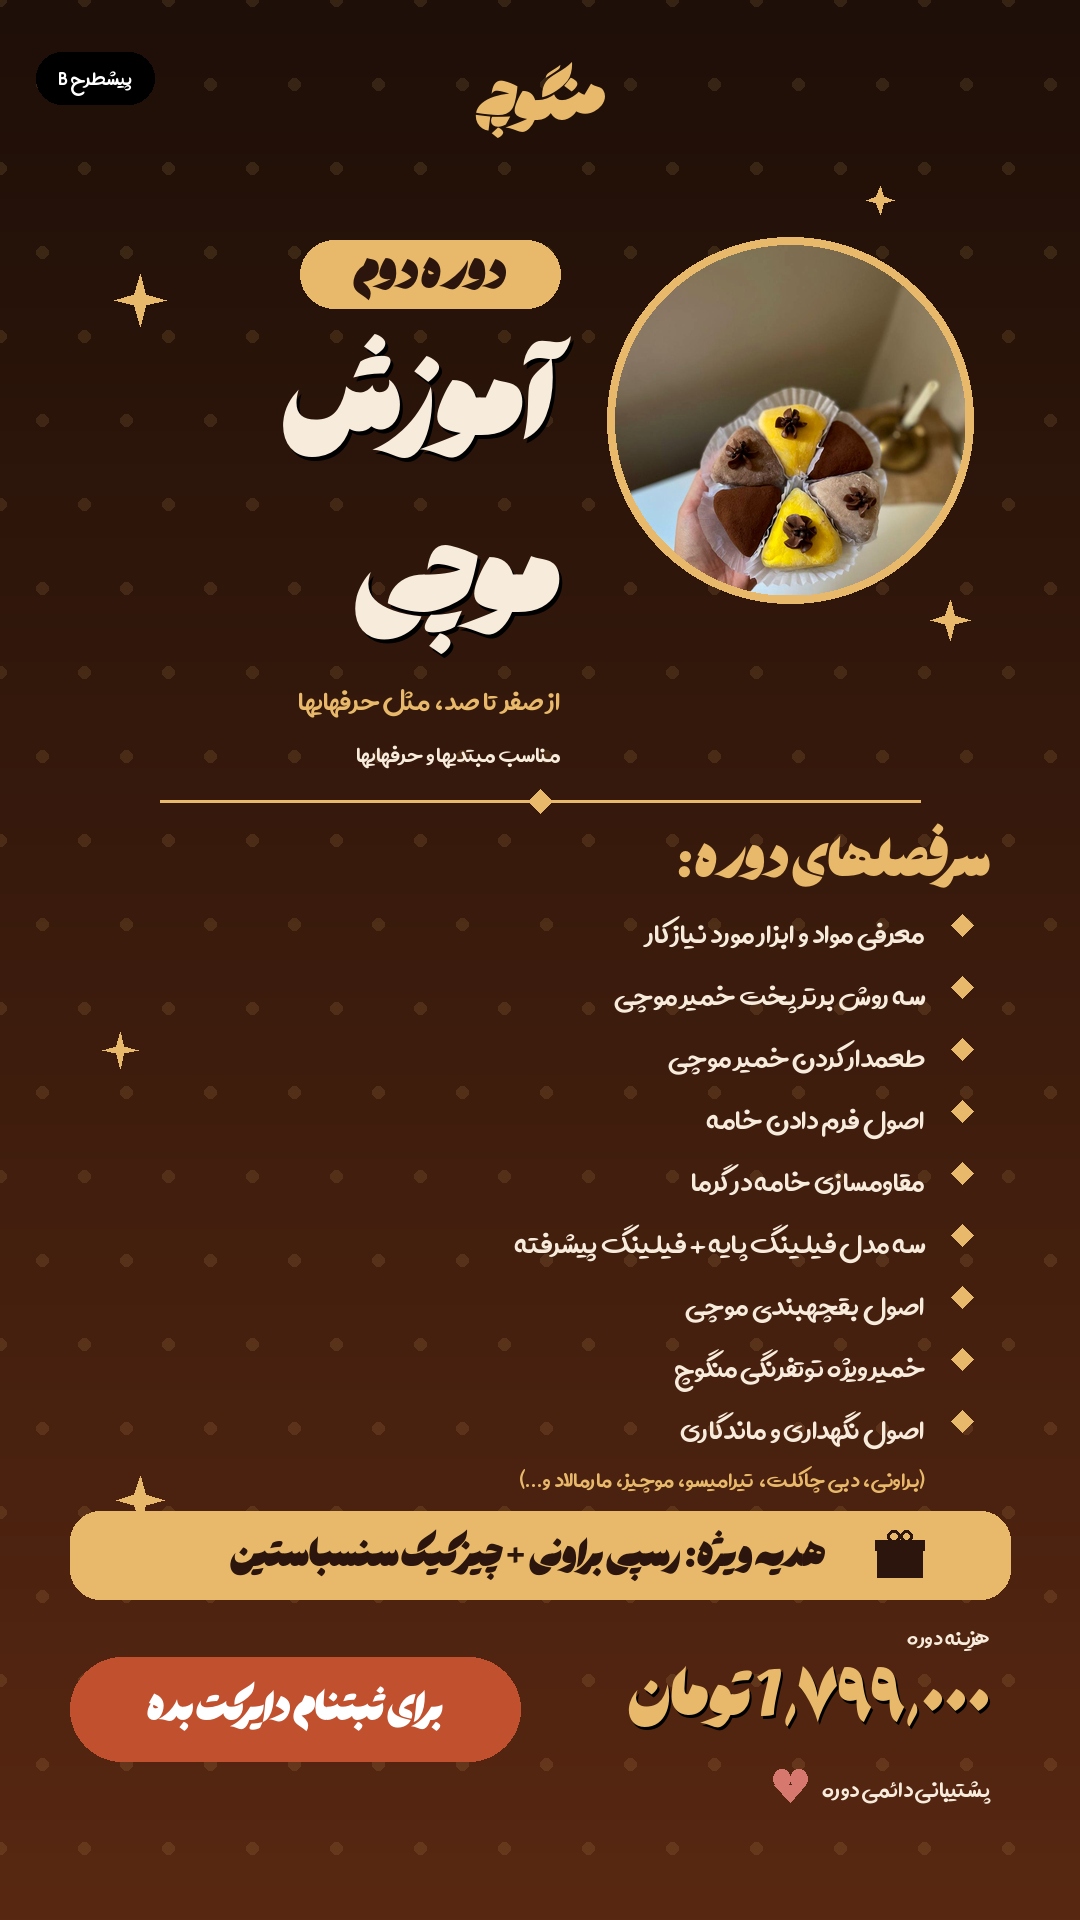
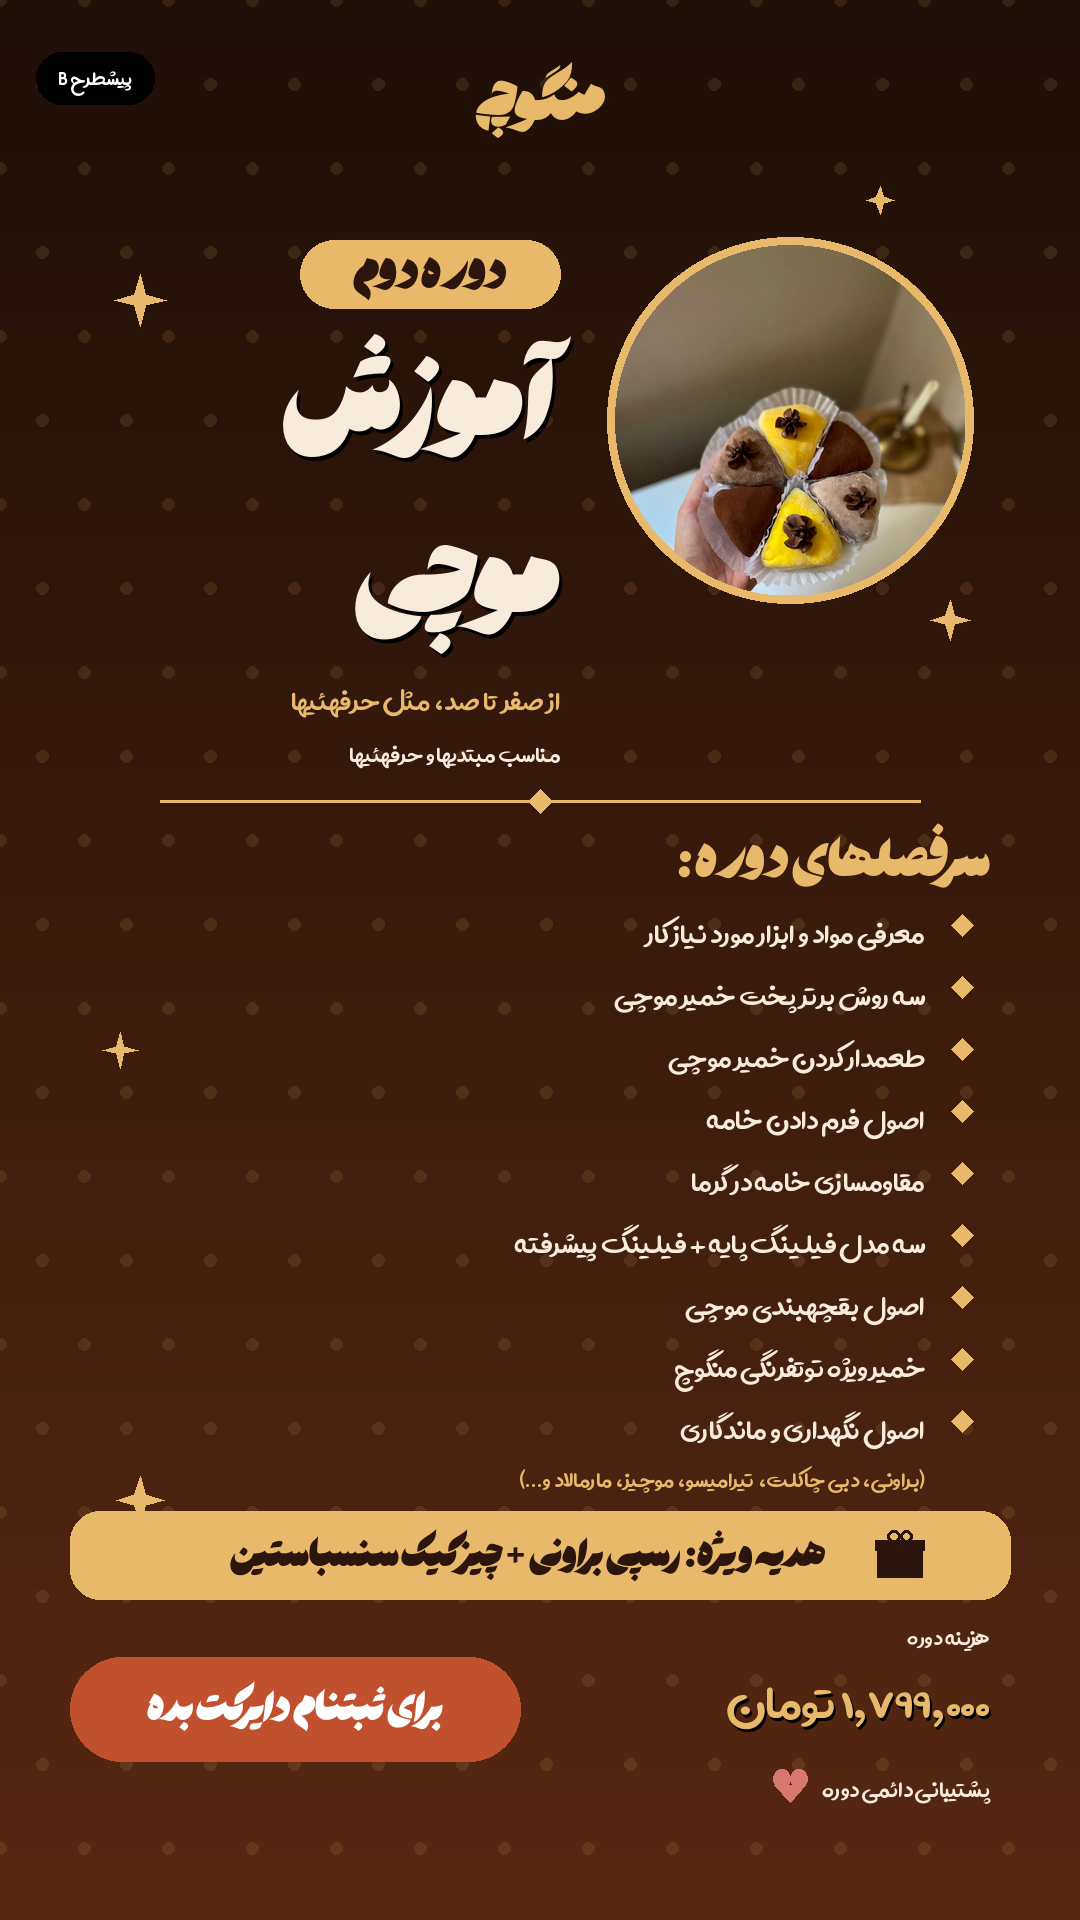
Finalize story A: fix ئ in حرفهایها, Persian price digits (Aviny), final render without draft tag

Changed region(s): [[0.5806, 0.8438, 0.9167, 0.9062], [0.275, 0.3438, 0.3056, 0.375]]

diff --git a/design/make_stories.py b/design/make_stories.py
@@ -1,6 +1,7 @@
 # -*- coding: utf-8 -*-
 """Instagram story pre-designs (1080x1920) for Manguch mochi course.
-Titles: Hasti | Body: Aviny
+Titles: Hasti | Body: Aviny | Price digits: Aviny (Hasti digits look Latin)
+Explicit escapes: ZWNJ | ئ | Persian digits | ٬
 """
 import sys, os
 sys.path.insert(0, os.path.dirname(os.path.abspath(__file__)))
@@ -177,43 +178,54 @@ def brand_top(img, y, color, sub=None, font_path=None):
         draw_fa(img, (540, y + 82), sub, F(AVINY, 28), color, anchor="mt")
 
 # ---------- content ----------
+ZW = ""
+HM = "ئی"[1]
+D1, D3, D7, D9, D0, SEP = "۱", "۳", "۷", "۹", "۰", "٬"
+assert ZW == "" and HM == "ئی"[1]
+SUB1 = "از صفر تا صد، مثل حرفه" + HM + "ی" + ZW + "ها"
+SUB2 = "مناسب مبتدی" + ZW + "ها و حرفه" + HM + "ی" + ZW + "ها"
 TOPICS_2COL = [
-    ["مواد و ابزار مورد نیاز کار", "۳ روش برتر پخت خمیر موچی", "طعمدار کردن خمیر موچی",
-     "اصول فرم دادن خامه", "مقاومسازی خامه در گرما"],
-    ["۳ فیلینگ پایه + فیلینگ پیشرفته", "اصول بقچهبندی موچی", "خمیر توتفرنگی منگوچ",
-     "نگهداری و ماندگاری"],
+    ["مواد و ابزار مورد نیاز کار", D3 + " روش برتر پخت خمیر موچی",
+     "طعم" + ZW + "دار کردن خمیر موچی",
+     "اصول فرم دادن خامه", "مقاوم" + ZW + "سازی خامه در گرما"],
+    [D3 + " فیلینگ پایه + فیلینگ پیشرفته", "اصول بقچه" + ZW + "بندی موچی",
+     "خمیر توت" + ZW + "فرنگی منگوچ", "نگهداری و ماندگاری"],
 ]
 TOPICS_1COL = ["معرفی مواد و ابزار مورد نیاز کار", "سه روش برتر پخت خمیر موچی",
-               "طعمدار کردن خمیر موچی", "اصول فرم دادن خامه", "مقاومسازی خامه در گرما",
-               "سه مدل فیلینگ پایه + فیلینگ پیشرفته", "اصول بقچهبندی موچی",
-               "خمیر ویژه توتفرنگی منگوچ", "اصول نگهداری و ماندگاری"]
+               "طعم" + ZW + "دار کردن خمیر موچی", "اصول فرم دادن خامه",
+               "مقاوم" + ZW + "سازی خامه در گرما",
+               "سه مدل فیلینگ پایه + فیلینگ پیشرفته", "اصول بقچه" + ZW + "بندی موچی",
+               "خمیر ویژه توت" + ZW + "فرنگی منگوچ", "اصول نگهداری و ماندگاری"]
 ADV_DETAIL = "(براونی، دبی چاکلت، تیرامیسو، موچیز، مارمالاد و…)"
-GIFT = "هدیه ویژه: رسپی براونی + چیزکیک سنسباستین"
-PRICE = "۱٬۷۹۹٬۰۰۰ تومان"
-CTA = "برای ثبتنام دایرکت بده"
+GIFT = "هدیه ویژه: رسپی براونی + چیزکیک سن" + ZW + "سباستین"
+PRICE = D1 + SEP + D7 + D9 + D9 + SEP + D0 + D0 + D0 + " تومان"
+CTA = "برای ثبت" + ZW + "نام دایرکت بده"
+SEC_A = "تو این دوره یاد می" + ZW + "گیری:"
+SEC_B = "سرفصل" + ZW + "های دوره:"
+CTA_A = "ثبت" + ZW + "نام در دایرکت"
+SUP = "پشتیبانی دائمی"
 
 # ================= DESIGN A : cream bakery =================
-def design_a():
+def design_a(final=False):
     CREAM, BROWN, TERRA, GOLD = (250, 241, 230), (84, 39, 26), (193, 80, 46), (176, 124, 62)
     img = Image.new("RGBA", (W, H), CREAM + (255,))
     dots(img, (176, 124, 62), step=76, r=6, alpha=28)
     brand_top(img, 60, BROWN)
-    tag(img, "پیشطرح A")
+    if not final:
+        tag(img, "پیشطرح A")
     paste_arch(img, "muchi.jpg", 540, 168, 640, 560, 12, TERRA)
     pill(img, [380, 688, 700, 776], TERRA)
     draw_fa(img, (540, 732), "دوره دوم", F(HASTI_RRD, 46), (255, 255, 255), anchor="mm")
     s = fit(HASTI_RRD, "آموزش موچی", 900, 116)
     draw_fa(img, (540, 800), "آموزش موچی", F(HASTI_RRD, s), BROWN, anchor="mt")
     ty = 800 + F(HASTI_RRD, s).height + 4
-    draw_fa(img, (540, ty), "از صفر تا صد، مثل حرفهایها",
-            F(AVINY, 37), (138, 90, 59), anchor="mt")
-    draw_fa(img, (540, ty + 58), "مناسب مبتدیها و حرفهایها",
-            F(AVINY, 30), GOLD, anchor="mt")
+    draw_fa(img, (540, ty), SUB1, F(AVINY, 37), (138, 90, 59), anchor="mt")
+    draw_fa(img, (540, ty + 58), SUB2, F(AVINY, 30), GOLD, anchor="mt")
     divider(img, int(ty + 128), GOLD)
-    draw_fa(img, (990, int(ty + 152)), "تو این دوره یاد میگیری:", F(HASTI_RRD, 44), TERRA, anchor="rt")
+    draw_fa(img, (990, int(ty + 152)), SEC_A, F(HASTI_RRD, 44), TERRA, anchor="rt")
     pill(img, [70, int(ty + 156), 420, int(ty + 222)], TERRA)
     heart(img, 340, int(ty + 189), 22, (255, 255, 255))
-    draw_fa(img, (295, int(ty + 189)), "پشتیبانی دائمی", F(HASTI_RRD, 30), (255, 255, 255), anchor="rm")
+    draw_fa(img, (295, int(ty + 189)), SUP, F(HASTI_RRD, 30), (255, 255, 255), anchor="rm")
     y0, step = int(ty + 242), 60
     cols_x = [990, 500]
     for ci, col in enumerate(TOPICS_2COL):
@@ -232,9 +244,10 @@ def design_a():
     py = gy + 104
     draw_fa(img, (785, py), "هزینه دوره", F(AVINY, 28), BROWN, anchor="mm")
     pill(img, [560, py + 44, 1010, py + 140], BROWN)
-    draw_fa(img, (785, py + 92), PRICE, F(HASTI_RRD, 42), (245, 214, 150), anchor="mm")
+    ps = fit(AVINY, PRICE, 400, 52, 30)
+    draw_fa(img, (785, py + 92), PRICE, F(AVINY, ps), (245, 214, 150), anchor="mm")
     pill(img, [70, py + 44, 520, py + 140], TERRA)
-    draw_fa(img, (295, py + 92), "ثبتنام در دایرکت", F(HASTI_RRD, 36), (255, 255, 255), anchor="mm")
+    draw_fa(img, (295, py + 92), CTA_A, F(HASTI_RRD, 36), (255, 255, 255), anchor="mm")
     return img
 
 # ================= DESIGN B : dark luxe =================
@@ -255,10 +268,10 @@ def design_b():
     draw_fa(img, (560, 322), "آموزش\nموچی", tf, CREAM, anchor="rt", line_spacing=1.08,
             shadow=((0, 0, 0), 3, 4))
     tt = 322 + tf.height * 1.08 + tf.height + 10
-    draw_fa(img, (560, tt), "از صفر تا صد، مثل حرفهایها", F(AVINY, 35), GOLD, anchor="rt")
-    draw_fa(img, (560, tt + 58), "مناسب مبتدیها و حرفهایها", F(AVINY, 29), CREAM, anchor="rt")
+    draw_fa(img, (560, tt), SUB1, F(AVINY, 35), GOLD, anchor="rt")
+    draw_fa(img, (560, tt + 58), SUB2, F(AVINY, 29), CREAM, anchor="rt")
     divider(img, int(tt + 128), GOLD, half=380)
-    draw_fa(img, (990, int(tt + 152)), "سرفصلهای دوره:", F(HASTI_S, 46), GOLD, anchor="rt")
+    draw_fa(img, (990, int(tt + 152)), SEC_B, F(HASTI_S, 46), GOLD, anchor="rt")
     y0, step = int(tt + 232), 62
     for i, t in enumerate(TOPICS_1COL):
         y = y0 + i * step
@@ -273,7 +286,8 @@ def design_b():
     draw_fa(img, (825, gy + 44), GIFT, F(HASTI_S, gs), DARK, anchor="rm")
     py = gy + 104
     draw_fa(img, (990, py), "هزینه دوره", F(AVINY, 28), CREAM, anchor="rt")
-    draw_fa(img, (990, py + 38), PRICE, F(HASTI_S, 56), GOLD, anchor="rt", shadow=((0, 0, 0), 2, 3))
+    ps = fit(AVINY, PRICE, 380, 62, 34)
+    draw_fa(img, (990, py + 38), PRICE, F(AVINY, ps), GOLD, anchor="rt", shadow=((0, 0, 0), 2, 3))
     sup = "پشتیبانی دائمی دوره"
     sf = F(AVINY, 30)
     draw_fa(img, (990, py + 150), sup, sf, CREAM, anchor="rt")
@@ -302,8 +316,8 @@ def design_c():
     s = fit(HASTI_R, "آموزش موچی", 880, 116)
     stroke_text(img, (540, 830), "آموزش موچی", F(HASTI_R, s), RASP, (255, 255, 255), sw=2, anchor="mt")
     th = F(HASTI_R, s).height
-    draw_fa(img, (540, 830 + th + 2), "از صفر تا صد، مثل حرفهایها", F(AVINY, 36), MAROON, anchor="mt")
-    draw_fa(img, (540, 830 + th + 58), "مناسب مبتدیها و حرفهایها + پشتیبانی دائمی",
+    draw_fa(img, (540, 830 + th + 2), SUB1, F(AVINY, 36), MAROON, anchor="mt")
+    draw_fa(img, (540, 830 + th + 58), SUB2 + " + پشتیبانی دائمی",
             F(AVINY, 28), MAROON, anchor="mt")
     cols = [TOPICS_2COL[0], TOPICS_2COL[1]]
     cw, chh, gap = 462, 70, 18
@@ -328,9 +342,9 @@ def design_c():
     gs = fit(HASTI_R, GIFT, 640, 33, 22)
     draw_fa(img, (830, gy + 42), GIFT, F(HASTI_R, gs), MAROON, anchor="rm")
     py = gy + 102
-    ps = fit(HASTI_R, PRICE, 400, 40, 26)
+    ps = fit(AVINY, PRICE, 400, 48, 26)
     rbox(img, [560, py, 1010, py + 100], 50, (255, 255, 255))
-    draw_fa(img, (785, py + 50), PRICE, F(HASTI_R, ps), RASP, anchor="mm")
+    draw_fa(img, (785, py + 50), PRICE, F(AVINY, ps), RASP, anchor="mm")
     pill(img, [70, py, 520, py + 100], RASP)
     cs = fit(HASTI_R, CTA, 400, 33, 22)
     draw_fa(img, (295, py + 50), CTA, F(HASTI_R, cs), (255, 255, 255), anchor="mm")
@@ -339,7 +353,8 @@ def design_c():
 
 if __name__ == "__main__":
     out = os.path.join(ROOT, "design")
-    for name, fn in [("story-A-cream", design_a), ("story-B-dark", design_b), ("story-C-pink", design_c)]:
+    for name, fn in [("story-A-cream", lambda: design_a()), ("story-B-dark", design_b),
+                     ("story-C-pink", design_c), ("story-final-A", lambda: design_a(final=True))]:
         img = fn()
         p = os.path.join(out, name + ".png")
         img.convert("RGB").save(p, quality=92)
